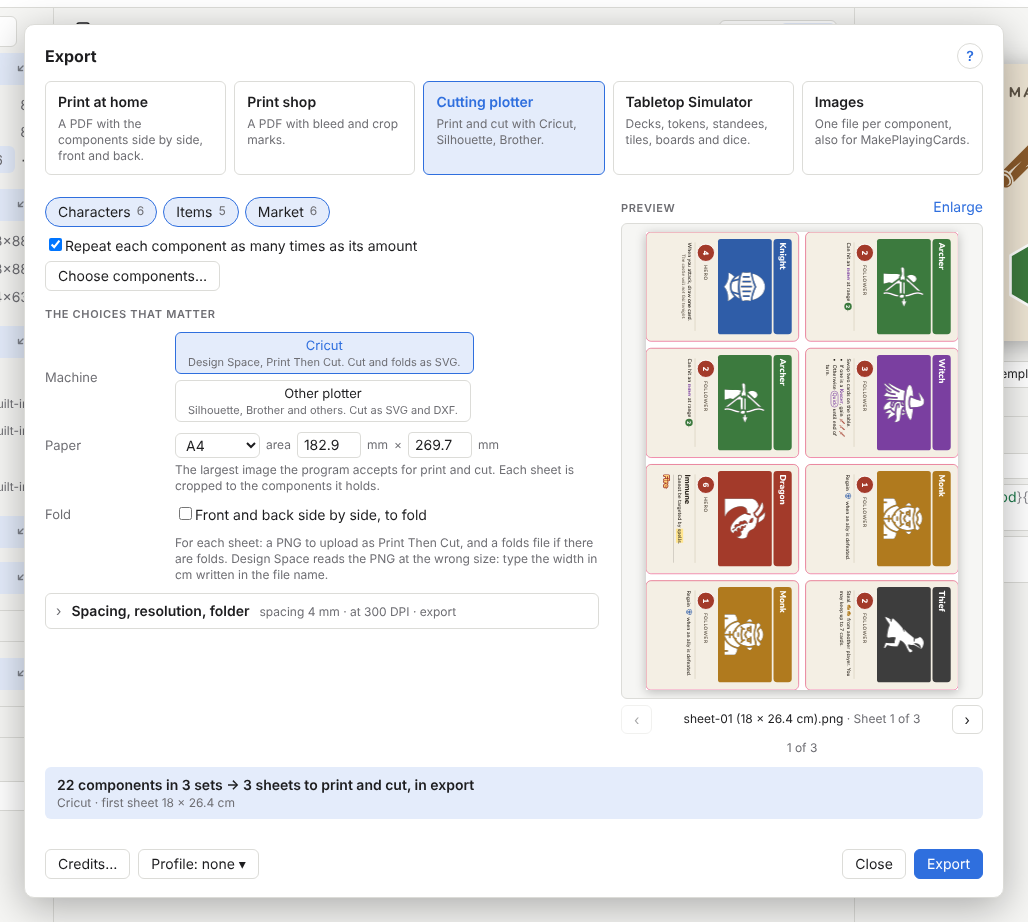
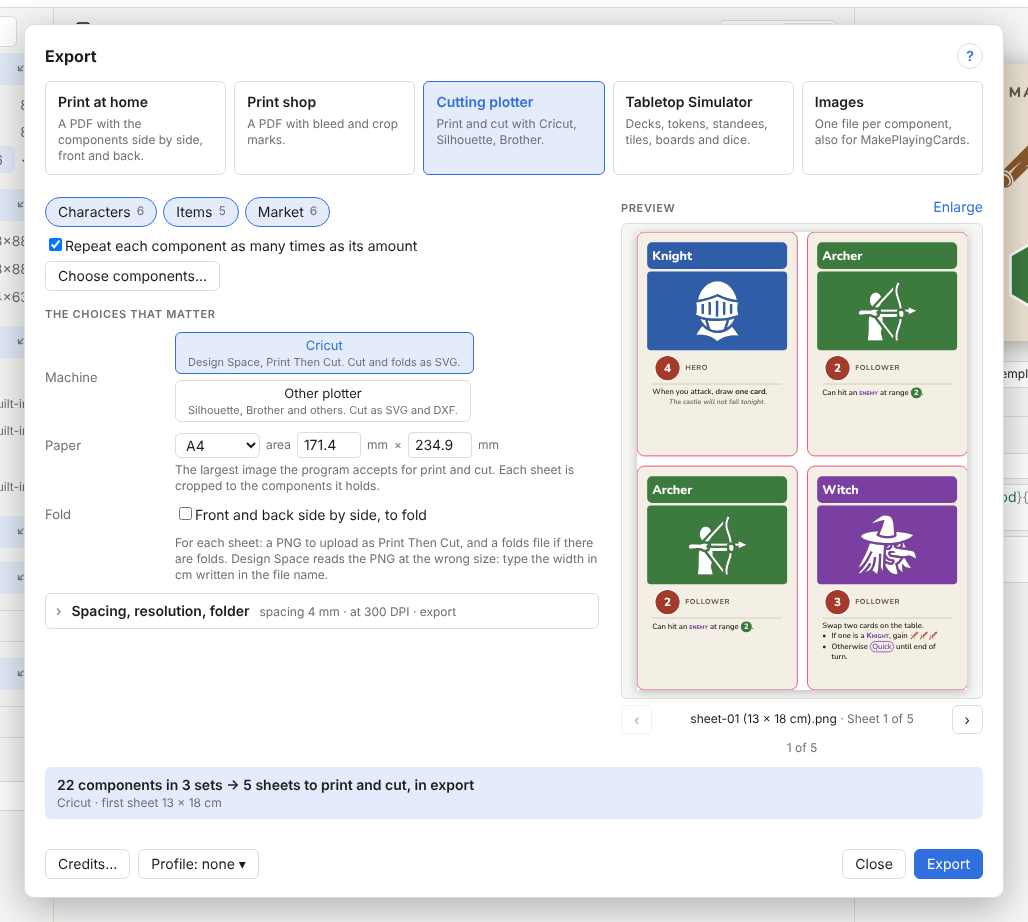
Plotter da taglio: area Cricut su A4 e Letter 17,14 x 23,49 cm
Il foglio largo 18 cm non passa in Design Space (prova su Cricut Maker):
si torna al limite storico di Stampa e taglia, 6,75 x 9,25 pollici.

Claude-Session: https://claude.ai/code/session_01QmKvjxDPfT4Koc84TiDSbm

diff --git a/src/shared/__tests__/cutPlan.test.ts b/src/shared/__tests__/cutPlan.test.ts
@@ -35,18 +35,17 @@ const cards = (n: number, t: Template = poker): ExportCard[] =>
   Array.from({ length: n }, (_, i) => card(t, i + 1))
 
 describe('esportazione per plotter da taglio', () => {
-  it('Cricut A4: 8 carte poker per foglio, ruotate, con il foglio ritagliato sui componenti', () => {
-    const plan = planCut(DEFAULT_CUT, [{ name: 'mazzo', cards: cards(10) }], 'gioco')
+  it('Cricut A4: 4 carte poker per foglio, con il foglio ritagliato sui componenti', () => {
+    const plan = planCut(DEFAULT_CUT, [{ name: 'mazzo', cards: cards(6) }], 'gioco')
     expect(plan.sheets).toHaveLength(2)
     const [first, second] = plan.sheets
-    expect(first.page.items).toHaveLength(8)
-    expect(first.page.items.every((it) => it.rotate === 90)).toBe(true)
-    // 2 colonne da 88 e 4 righe da 63,5 con 4 mm tra le carte
-    expect(first.width).toBeCloseTo(2 * 88 + 4, 2)
-    expect(first.height).toBeCloseTo(4 * 63.5 + 3 * 4, 2)
-    expect(first.name).toBe('sheet-01 (18 x 26.6 cm)')
+    expect(first.page.items).toHaveLength(4)
+    // 2 colonne da 63,5 e 2 righe da 88 con 4 mm tra le carte, entro 171,4 × 234,9 mm
+    expect(first.width).toBeCloseTo(2 * 63.5 + 4, 2)
+    expect(first.height).toBeCloseTo(2 * 88 + 4, 2)
+    expect(first.name).toBe('sheet-01 (13.1 x 18 cm)')
     // un contorno chiuso per carta, nessun foro, e il primo comincia in 0, 0
-    expect(first.cut).toHaveLength(8)
+    expect(first.cut).toHaveLength(4)
     const box = ringsBounds(first.cut)!
     expect(box.x).toBeCloseTo(0, 2)
     expect(box.y).toBeCloseTo(0, 2)
@@ -111,7 +110,13 @@ describe('esportazione per plotter da taglio', () => {
   })
 
   it('coppie da piegare: se girando il foglio ne entrano di più, il foglio si gira', () => {
-    const o: CutOptions = { ...DEFAULT_CUT, fold: true }
+    const o: CutOptions = {
+      ...DEFAULT_CUT,
+      fold: true,
+      paper: 'custom',
+      areaWidth: 182.9,
+      areaHeight: 269.7
+    }
     const plan = planCut(o, [{ name: 'm', cards: cards(4) }], 'g')
     // dritte ne entrano 2 (127 x 88, tre righe non stanno in 269,7); girate 4
     expect(plan.sheets).toHaveLength(1)
@@ -157,8 +162,8 @@ describe('esportazione per plotter da taglio', () => {
     const plan = planCut(DEFAULT_CUT, [{ name: 'm', cards: cards(1) }], 'g')
     const [sheet] = plan.sheets
     const svg = cutSvg(sheet, 'cut')
-    // la carta ruotata: 88 mm = 249,449 px e 63,5 mm = 180 px a 72 per pollice
-    expect(svg).toContain('width="249.449" height="180"')
+    // 63,5 mm = 180 px e 88 mm = 249,449 px a 72 per pollice
+    expect(svg).toContain('width="180" height="249.449"')
     expect(svg).not.toMatch(/mm"/)
     const folds = cutSvg(sheet, 'folds')
     expect(folds.indexOf('id="outline"')).toBeLessThan(folds.indexOf('id="folds"'))
@@ -176,8 +181,8 @@ describe('esportazione per plotter da taglio', () => {
       (key, p) => `${key}${p ? ' ' + JSON.stringify(p) : ''}`,
       'it'
     )
-    expect(text).toContain('"w":"8,8","h":"6,35"')
-    expect(plan.sheets[0].name).toBe('sheet-01 (8,8 x 6,35 cm)')
+    expect(text).toContain('"w":"6,35","h":"8,8"')
+    expect(plan.sheets[0].name).toBe('sheet-01 (6,35 x 8,8 cm)')
     expect(cm(182.9)).toBe('18.29')
   })
 

diff --git a/src/shared/export.ts b/src/shared/export.ts
@@ -261,12 +261,14 @@ export const DEFAULT_PDF: PdfOptions = {
 }
 
 /**
- * Area di stampa e taglio di Cricut Design Space (Maker ed Explore) per foglio, in mm, come la
- * dichiara Cricut: larghezza per altezza in verticale
+ * Area di Stampa e taglio di Cricut Design Space per foglio, in mm, larghezza per altezza in
+ * verticale. A4 e Letter: 6,75 × 9,25 pollici, il limite storico di Cricut; le misure più grandi
+ * che Cricut indica per i computer (18,29 cm su A4) non passano: con una Maker un foglio largo
+ * 18 cm dà «immagini troppo grandi», uno da 16,5 cm passa. A3: da provare.
  */
 export const CRICUT_AREAS: Record<Exclude<CutPaper, 'custom'>, [number, number]> = {
-  A4: [182.9, 269.7],
-  Letter: [189, 252.5],
+  A4: [171.4, 234.9],
+  Letter: [171.4, 234.9],
   A3: [270.3, 392.2]
 }
 

diff --git a/skill/stella/SKILL.md b/skill/stella/SKILL.md
@@ -107,7 +107,7 @@ Older projects have `naibi.json` or `gamecreator.json` instead of `stella.json`;
 - `sets[].sheet` is optional (default: the set's name). Several sets may name the same sheet: they share its rows and each draws them with its own template; `rename-set` then keeps the sheet's name. `sets[].hiddenColumns` (columns hidden in the app's table) and `sets[].showComputed` (also show fixed and formula layers, read only) and `sets[].pinnedProperties` (`layer.property` columns pinned in the card form) and `sets[].colors` (table colors: `{ "columns": [{ "column": "faction", "colors": { "Red": "#fbe0e0" } }], "wholeRow": true }`; number keys are `=n` or bands `b0`-`b2`) are view preferences only; they never change the cards. `sets[].seed` (whole number) is the seed of the set's random numbers (see formulas); `sets[].generator` is written by the app (last random Generate settings, for Regenerate): leave it alone. `sets[].generations` is also written by the app (generations saved with a name in Generate, called back to fill the window): leave it alone unless the user asks to rename or remove one. A set's template is `templates/<template>.json`.
 - `styles`: name → markup attributes. `heading1`, `heading2` and `note` always exist and can be redefined.
 - `variables`: `image` (`src` file name; optional `tint`, `scale` (height relative to the line, 1 = normal), `raise` (% of the line), `rotate` (degrees), `flip` (`h`, `v`, `hv`), `opacity` 0-1, `stroke` (outline following the image's shape: `{ "color": "white", "width": 0.3 }`, width in mm or `"8%"` of the image height; image layers using the variable take it unless they have their own), `bg` (a background behind the image everywhere the variable is used: `circle`, `square`, `rounded`, `hexagon`, `diamond`, a file or another image variable), `bgColor`, `bgPad` (space around the image, fraction of the side, default 0.18); e.g. `"water": { "type": "image", "src": "drop", "tint": "white", "bg": "circle", "bgColor": "#C0392B" }` is a white drop in a red circle), `text` (markup that replaces `{name}`; it can take parameters, see below), `color` (usable by name in every colour property, which also accepts `{field}` to take a card field such as a value layer; redefining a CSS colour name such as `red` changes it everywhere), `value` (constant text or number, also usable in formulas).
-- `export` holds the options of the last export of each kind the named profiles (`export.named`) and the kind of the last export (`export.last`, used by Repeat the last export), written by the app; `order` holds the sidebar order. Leave existing ones alone unless asked; when the user asks for an export and the project has no fitting profile (`info` lists them), add one to `export.named` and run it with `export --profile`. A profile is `{ "name": "Print", "kind": "pdf" | "images" | "tts" | "cut", "options": { ... } }`; options left out take the app's defaults, so `{}` is a valid start. Useful options: all kinds `sets` (set names, empty = all), `copies` (true = repeat cards by `amount`; default true for PDF and TTS, false for images); PDF `page` (`A4`, `A3`, `Letter`), `landscape`, `margin` (mm, 10), `bleed` (false), `marks` (`corners`, `lines`, `none`), `sides` (`front`, `back`, `both`), `duplex` (`none`, `long`, `short`: backs on alternate pages, mirrored), `split` (`single`, `set`, `side`), `dice` (`faces` or `net`: die sets as a foldable net with glue tabs, every die except the d2 coin; d6/d3 need square faces; with `faces` triangle faces interlock; cut and fold lines only with `marks`; `tabDepth` mm, 0 = automatic); images `format` (`png`, `jpg`, `webp`, `svg`), `dpi` (300), `bleed`, `sides`, `pattern` (file names, `%set/%n`); cut (cutting plotters: one PNG per sheet cropped to the components, plus cut/fold files and `instructions.txt` in `export/<project>_plotter/`) `machine` (`cricut`: PNG for Print Then Cut, fold SVG; `other`: also cut SVG and DXF), `paper` (`A4`, `Letter`, `A3`, `custom`), `areaWidth`/`areaHeight` (mm usable area, Cricut A4 182.9 × 269.7), `spacing` (mm, 4), `fold` (front and back side by side as one piece), `dpi`; TTS `destination` (`project` = `export/tts/`, `tts` = Tabletop Simulator's Saved Objects folder, `both`, the default), `objects` (below). PDF and image files go to `export/` unless `folder` is set. In Tabletop Simulator options (`export.tts` or a named profile of kind `tts`), `objects` maps a set name to what it becomes: `{ "type": "card" | "token" | "standee" | "tile" | "board" | "die", "thickness": 2, "edgeColor": "#FFFFFF", "tags": "enemy, card" }` (`tags`: Tabletop Simulator tags of the set's components, `{field}` allowed, replacing the template's `ttsTags`; leave it out to use the template's; thickness in mm, default 2, 10 for standees; edge color for tiles and boards; `die` makes a real die (rounded edges, shape from the template's `die`) from every N cards, one per face, card 1 on face 1, opposite faces add up to N+1; the d3 is a cube 1-2-3-3-2-1, the d4 reads the top corner, the d2 is a coin; wants a die face template); a set not listed takes the `kind` of its template (no `kind`: a deck of cards).
+- `export` holds the options of the last export of each kind the named profiles (`export.named`) and the kind of the last export (`export.last`, used by Repeat the last export), written by the app; `order` holds the sidebar order. Leave existing ones alone unless asked; when the user asks for an export and the project has no fitting profile (`info` lists them), add one to `export.named` and run it with `export --profile`. A profile is `{ "name": "Print", "kind": "pdf" | "images" | "tts" | "cut", "options": { ... } }`; options left out take the app's defaults, so `{}` is a valid start. Useful options: all kinds `sets` (set names, empty = all), `copies` (true = repeat cards by `amount`; default true for PDF and TTS, false for images); PDF `page` (`A4`, `A3`, `Letter`), `landscape`, `margin` (mm, 10), `bleed` (false), `marks` (`corners`, `lines`, `none`), `sides` (`front`, `back`, `both`), `duplex` (`none`, `long`, `short`: backs on alternate pages, mirrored), `split` (`single`, `set`, `side`), `dice` (`faces` or `net`: die sets as a foldable net with glue tabs, every die except the d2 coin; d6/d3 need square faces; with `faces` triangle faces interlock; cut and fold lines only with `marks`; `tabDepth` mm, 0 = automatic); images `format` (`png`, `jpg`, `webp`, `svg`), `dpi` (300), `bleed`, `sides`, `pattern` (file names, `%set/%n`); cut (cutting plotters: one PNG per sheet cropped to the components, plus cut/fold files and `instructions.txt` in `export/<project>_plotter/`) `machine` (`cricut`: PNG for Print Then Cut, fold SVG; `other`: also cut SVG and DXF), `paper` (`A4`, `Letter`, `A3`, `custom`), `areaWidth`/`areaHeight` (mm usable area, Cricut A4/Letter 171.4 × 234.9), `spacing` (mm, 4), `fold` (front and back side by side as one piece), `dpi`; TTS `destination` (`project` = `export/tts/`, `tts` = Tabletop Simulator's Saved Objects folder, `both`, the default), `objects` (below). PDF and image files go to `export/` unless `folder` is set. In Tabletop Simulator options (`export.tts` or a named profile of kind `tts`), `objects` maps a set name to what it becomes: `{ "type": "card" | "token" | "standee" | "tile" | "board" | "die", "thickness": 2, "edgeColor": "#FFFFFF", "tags": "enemy, card" }` (`tags`: Tabletop Simulator tags of the set's components, `{field}` allowed, replacing the template's `ttsTags`; leave it out to use the template's; thickness in mm, default 2, 10 for standees; edge color for tiles and boards; `die` makes a real die (rounded edges, shape from the template's `die`) from every N cards, one per face, card 1 on face 1, opposite faces add up to N+1; the d3 is a cube 1-2-3-3-2-1, the d4 reads the top corner, the d2 is a coin; wants a die face template); a set not listed takes the `kind` of its template (no `kind`: a deck of cards).
 
 ## Data sheets
 

diff --git a/docs/specifica.md b/docs/specifica.md
@@ -559,7 +559,7 @@ Esportazione `kind: "cut"` (`src/shared/cutPlan.ts`) per le macchine che stampan
 | risoluzione | DPI del PNG, di base 300                                                                                  |
 | piegatura   | fronte e retro affiancati come pezzo unico (`fold`); linguette dei dadi (`tabDepth`)                      |
 
-Aree di base, come le dichiara Cricut per Stampa e taglia: A4 182,9 × 269,7 mm, Letter 189 × 252,5, A3 270,3 × 392,2. Per gli altri plotter una stima prudente (A4 180 × 267, Letter 185,9 × 249,4, A3 267 × 390). Nella prova su una Cricut Maker un foglio da 16,5 cm di larghezza è passato; il limite vero va controllato sulla macchina.
+Aree di base per Cricut: A4 e Letter 171,4 × 234,9 mm (6,75 × 9,25 pollici, il limite storico di Stampa e taglia), A3 270,3 × 392,2 (da provare). Cricut indica per i computer anche 182,9 × 269,7 su A4, ma nella prova su una Cricut Maker un foglio largo 18 cm ha dato «immagini troppo grandi», mentre uno da 16,5 cm è passato. Per gli altri plotter una stima prudente (A4 180 × 267, Letter 185,9 × 249,4, A3 267 × 390).
 
 L'impaginazione riusa quella del PDF (`cutPdfOptions`): pagina grande quanto l'area, margini zero, nessun segno, angoli e forme dei template, solo fronte, set uno dopo l'altro, dadi come sviluppi. Le coppie da piegare non si ruotano nella griglia: se con l'area girata i fogli sono meno, si impagina girata e si gira ogni foglio di 90° in senso orario (le carte diventano matrici). Ogni foglio si ritaglia poi sul riquadro dell'unione dei contorni dei componenti, che parte da 0, 0: PNG e SVG hanno la stessa misura e si allineano in alto a sinistra anche se il programma ritaglia l'SVG sul contenuto.
 

diff --git a/docs/guida/README.md b/docs/guida/README.md
@@ -1071,7 +1071,7 @@ I fogli si richiamano con indirizzi locali, quindi il mazzo funziona sul compute
 
 **Plotter da taglio** prepara i componenti per una macchina che stampa e taglia: Cricut (Design Space, funzione **Stampa e taglia**), Silhouette, Brother ScanNCut e simili. La stampante stampa il foglio, la macchina legge i segni di registro e taglia lungo il contorno di ogni componente, angoli arrotondati, esagoni, sagome e fori compresi.
 
-I programmi di queste macchine accettano un'immagine non più grande di un'area fissa, che dipende dalla carta: **Macchina** e **Carta** la scelgono (per Cricut A4 18,29 × 26,97 cm, Letter 18,9 × 25,25 cm, A3 27,03 × 39,22 cm, come le dichiara Cricut), e i due campi accanto la cambiano a mano. Stella mette nell'area quanti più componenti possibile, girandoli se così ne entrano di più, con la **Spaziatura** tra l'uno e l'altro (di base 4 mm). Poi ritaglia ogni foglio sui componenti che contiene, così il programma della macchina non deve indovinare dove cominciano.
+I programmi di queste macchine accettano un'immagine non più grande di un'area fissa, che dipende dalla carta: **Macchina** e **Carta** la scelgono (per Cricut su A4 e Letter 17,14 × 23,49 cm; le misure più grandi che Cricut indica per i computer, 18,29 cm di larghezza, nella prova non sono passate), e i due campi accanto la cambiano a mano. Stella mette nell'area quanti più componenti possibile, girandoli se così ne entrano di più, con la **Spaziatura** tra l'uno e l'altro (di base 4 mm). Poi ritaglia ogni foglio sui componenti che contiene, così il programma della macchina non deve indovinare dove cominciano.
 
 ![Esportazione per plotter da taglio](img/esporta-plotter.png)
 

diff --git a/docs/guide/README.md b/docs/guide/README.md
@@ -1071,7 +1071,7 @@ Sheets are referenced by local addresses, so the deck works on the computer that
 
 **Cutting plotter** prepares the components for a machine that prints and cuts: Cricut (Design Space, **Print Then Cut**), Silhouette, Brother ScanNCut and similar. The printer prints the sheet, the machine reads the registration marks and cuts along the outline of each component, rounded corners, hexagons, custom shapes and holes included.
 
-The programs of these machines accept an image no larger than a fixed area, which depends on the paper: **Machine** and **Paper** choose it (for Cricut A4 18.29 × 26.97 cm, Letter 18.9 × 25.25 cm, A3 27.03 × 39.22 cm, as Cricut states them), and the two fields next to it change it by hand. Stella fits as many components as it can in the area, turning them if more fit that way, with the **Spacing** between them (4 mm by default). Then it crops each sheet to the components it holds, so the machine's program does not have to guess where they start.
+The programs of these machines accept an image no larger than a fixed area, which depends on the paper: **Machine** and **Paper** choose it (for Cricut on A4 and Letter 17.14 × 23.49 cm; the larger sizes Cricut gives for computers, 18.29 cm wide, did not pass in our test), and the two fields next to it change it by hand. Stella fits as many components as it can in the area, turning them if more fit that way, with the **Spacing** between them (4 mm by default). Then it crops each sheet to the components it holds, so the machine's program does not have to guess where they start.
 
 ![Export for cutting plotters](img/esporta-plotter.png)
 
